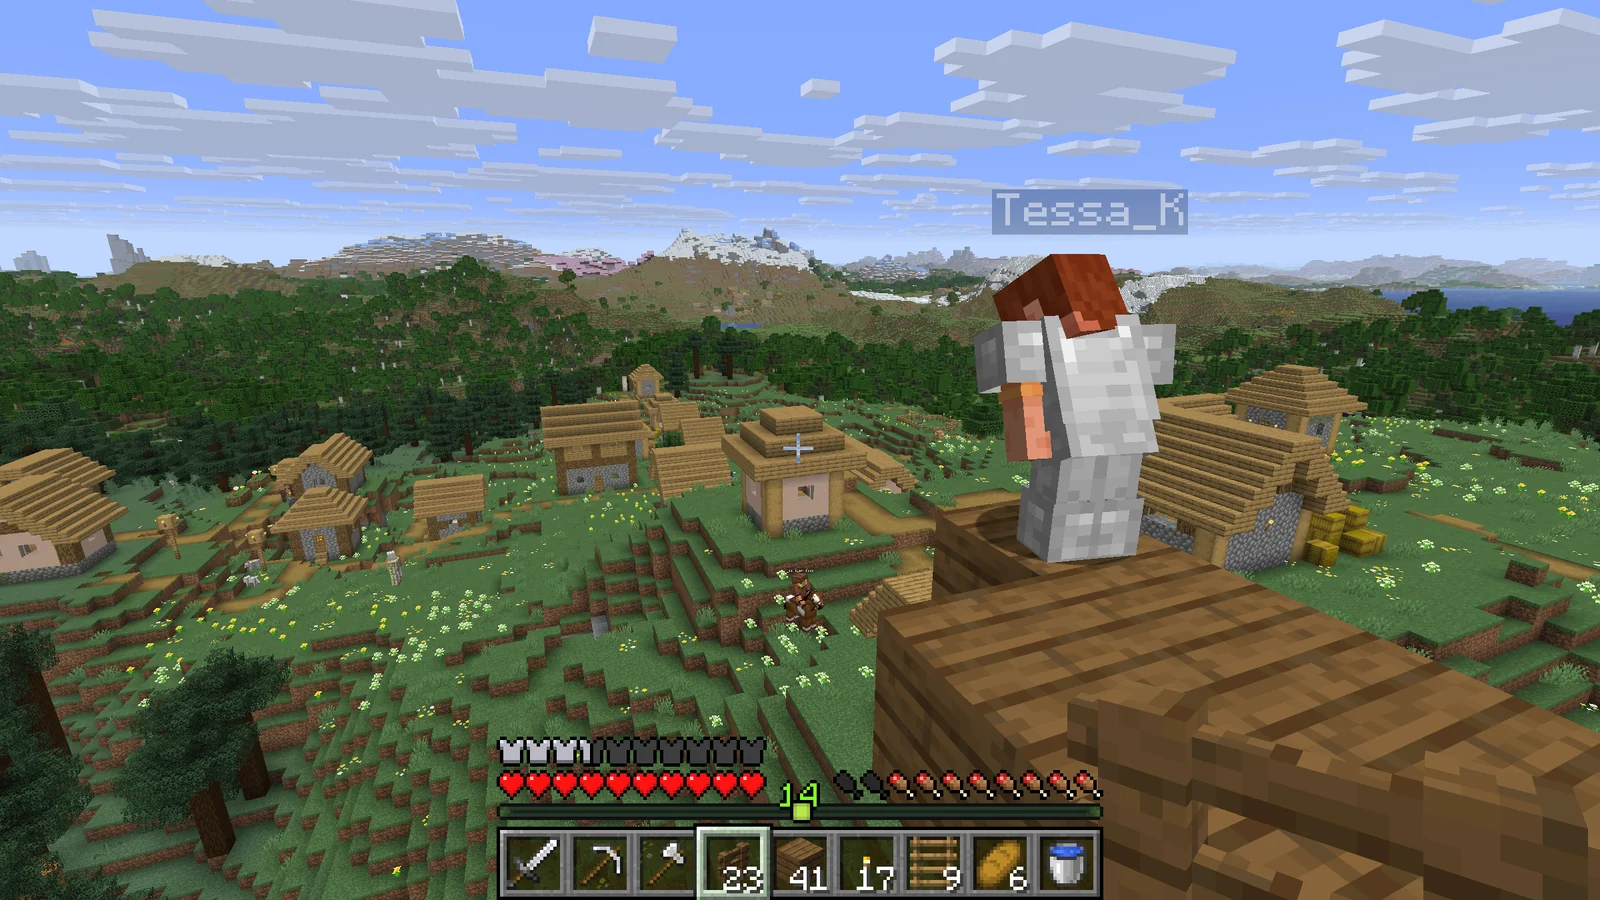
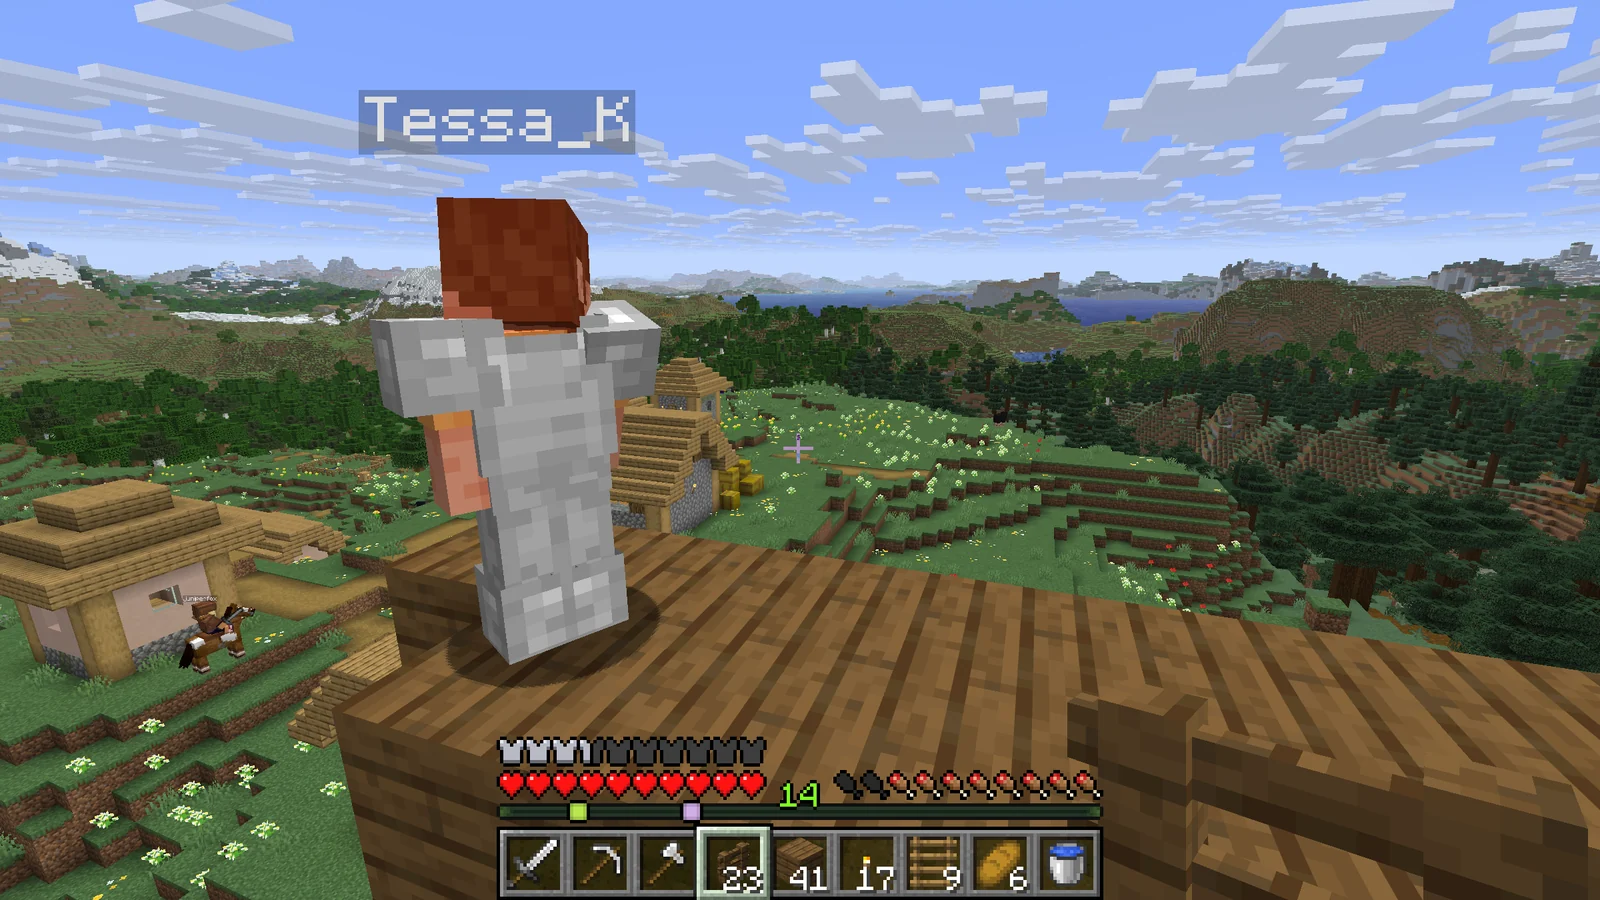
docs: one README screenshot, and the claims in the tagline and two lines
The Nether screenshot goes. The lookout is retaken facing west, so no
far cherry grove is in the frame. The tagline and two lines hold what
the six-cell table said, without repeating it.

diff --git a/README.md b/README.md
@@ -3,8 +3,8 @@
 </p>
 
 <p align="center">
-  <b>Minecraft: Java Edition 26.3, rebuilt from scratch in Rust.</b><br>
-  The same rules and the same terrain, your own worlds, in one native program without Java.
+  <b>Minecraft: Java Edition 26.3 as one native program, without Java.</b><br>
+  Vanilla's terrain, mobs, villagers and redstone in every dimension, and your saves open as they are.
 </p>
 
 <p align="center">
@@ -21,31 +21,16 @@
 <p align="center">
   <a href="https://playhorizon.dev"><b>Website</b></a> ·
   <a href="https://playhorizon.dev/docs/"><b>Docs</b></a> ·
-  <a href="https://playhorizon.dev/docs/install"><b>Install guide</b></a> ·
-  <a href="https://discord.gg/playhorizon"><b>Discord</b></a>
+  <a href="https://playhorizon.dev/docs/install"><b>Install guide</b></a>
 </p>
 
 <p align="center">
-  <img src="docs/media/readme/hero-lookout.webp" alt="A player's view from a wooden lookout over a meadow village: a friend in iron armour stands at the edge, another rides a horse below, and cherry groves, snowy peaks and an ocean run to the horizon" width="100%">
+  <img src="docs/media/readme/hero-lookout.webp" alt="A player's view from a wooden lookout over a village: a friend in iron armour stands at the edge, another rides a horse between the houses below, and forest, snowy peaks and the sea run to the horizon" width="100%">
 </p>
 
-<table align="center">
-  <tr>
-    <td width="50%" valign="top"><b>See farther</b><br><sub>Terrain up to 1,024 chunks away, HDR and controllers.</sub></td>
-    <td width="50%" valign="top"><b>Play together</b><br><sub>Vanilla and Horizon servers, LAN, or a code from a friend.</sub></td>
-  </tr>
-  <tr>
-    <td valign="top"><b>Your worlds</b><br><sub>Survival, creative and hardcore, and your saves open as they are.</sub></td>
-    <td valign="top"><b>Same terrain</b><br><sub>Vanilla world generation in every dimension.</sub></td>
-  </tr>
-  <tr>
-    <td valign="top"><b>Same mobs</b><br><sub>Attributes, spawn rules and mob AI match vanilla.</sub></td>
-    <td valign="top"><b>Same rules</b><br><sub>Villagers and redstone work as they do in vanilla.</sub></td>
-  </tr>
-</table>
-
 <p align="center">
-  <img src="docs/media/readme/hero-nether.webp" alt="A player's view from a strider on a lava sea in the Nether, behind a friend riding another strider toward a lavafall and a crimson forest" width="100%">
+  <b>See farther</b> · terrain up to 1,024 chunks away, HDR and controllers<br>
+  <b>Play together</b> · vanilla and Horizon servers, LAN, or a code from a friend
 </p>
 
 <p align="center">

diff --git a/docs/media/brand/README.md b/docs/media/brand/README.md
@@ -52,12 +52,11 @@ NODE_PATH="$d/node_modules" node -e 'const {chromium}=require("playwright");(asy
 
 ## The README screenshots
 
-`docs/media/readme/hero-lookout.webp` and `hero-nether.webp` (1600x900) are frames of a real three-player
-session: a host with its world open to LAN and two guests, all started with `horizon-ctl launch --offscreen`
-at 1920x1080 on a 125 % display and reduced to 1600x900. The world's seed is `4815162342`; the far terrain
-distance is 384 chunks and the render distance 32. The lookout at `311 125 603` in the Overworld was built
-for the picture (it faces the village at yaw 22, pitch 16); the Nether frame is taken from a strider at
-`38 32 74`, yaw 152. Players are in survival with the HUD on, as a player's own screenshot would be.
+`docs/media/readme/hero-lookout.webp` (1600x900) is a frame of a real three-player session: a host with its
+world open to LAN and two guests, all started with `horizon-ctl launch --offscreen` at 1920x1080 on a 125 %
+display and reduced to 1600x900. The world's seed is `4815162342`; the far terrain distance is 384 chunks and
+the render distance 32. The lookout at `311 125 603` in the Overworld was built for the picture; the camera
+faces yaw 70, pitch 15. Players are in survival with the HUD on, as a player's own screenshot would be.
 
 ## Drawn in code
 
